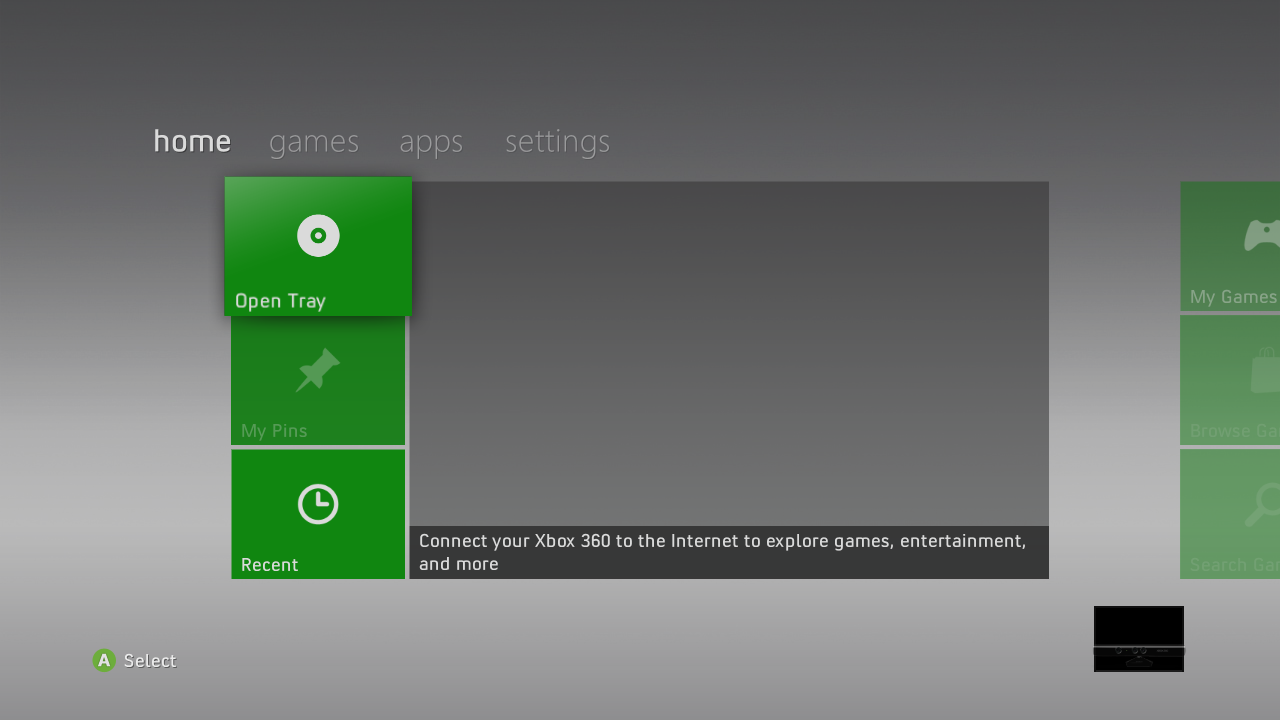
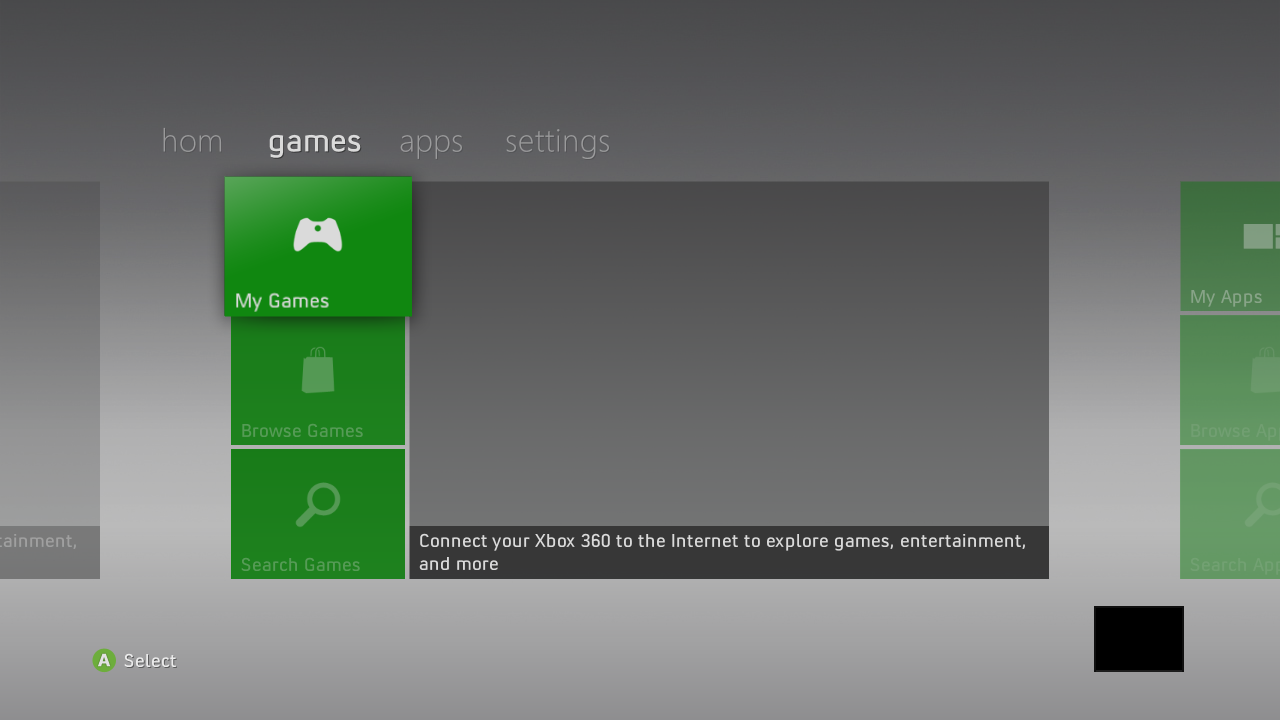
docs(readme): use actual dashboard games capture

diff --git a/README.pt-BR.md b/README.pt-BR.md
@@ -71,13 +71,13 @@ O `vk.xex` 17559 identificado corresponde à versão Retail 17559. O `vk.xex` 13
 
 ## Veja a dashboard original
 
-Estas são capturas reais de leitura da GPU em 1280×720 do **backend Xenos**, feitas em 14 de outubro de 2026 durante uma comparação de navegação da dashboard. Elas mostram estados da interface, não gameplay nem um benchmark de desempenho.
+Estas são capturas reais de leitura da GPU em 1280×720, feitas em 14 de outubro de 2026 durante uma comparação de navegação da dashboard. A Home usa o backend padrão **Xenos / D3D12**. Games usa o backend **Native D3D12 experimental**, cujo desenvolvimento está suspenso e cujo desempenho não foi aprovado. As imagens mostram estados da dashboard, não gameplay nem um benchmark de desempenho, e não são uma comparação entre os dois backends.
 
-| Dashboard 17559 · Home | Dashboard 17559 · Games |
+| Dashboard 17559 · Home · Xenos | Dashboard 17559 · Games · Native experimental |
 |---|---|
 | ![Captura real da Home da Dashboard 17559](docs/assets/screenshots/dashboard-17559-home.png) | ![Captura real de Games da Dashboard 17559](docs/assets/screenshots/dashboard-17559-games.png) |
 
-Os metadados e hashes estão em [`captures.json`](docs/evidence/native-n2-2026-10-14/captures.json); o conjunto completo de evidências fica em [`docs/evidence/`](docs/evidence/). O banner acima é arte conceitual original, não uma captura de tela nem uma afirmação de compatibilidade.
+Os metadados e hashes estão em [`captures.json`](docs/evidence/native-n2-2026-10-14/captures.json); o conjunto completo de evidências fica em [`docs/evidence/`](docs/evidence/). A captura Games vem de `native-games.png`, onde as abas Games e o bloco My Games estão visíveis. O banner acima é arte conceitual original, não uma captura de tela nem uma afirmação de compatibilidade.
 
 ## Como funciona
 

diff --git a/README.md b/README.md
@@ -71,13 +71,13 @@ The 17559 `vk.xex` is the identified Retail 17559 component. The 13604 `vk.xex` 
 
 ## See the original dashboard
 
-These are real 1280×720 GPU readback screenshots from the **Xenos backend**, captured on 14 October 2026 during a dashboard navigation comparison. They show dashboard states, not gameplay and not a performance benchmark.
+These are real 1280×720 GPU readback screenshots captured on 14 October 2026 during a dashboard navigation comparison. Home uses the default **Xenos / D3D12** backend. Games uses the **experimental Native D3D12** backend, whose development is suspended and whose performance is not approved. They show dashboard states, not gameplay or a performance benchmark, and the two images are not a backend comparison.
 
-| Dashboard 17559 · Home | Dashboard 17559 · Games |
+| Dashboard 17559 · Home · Xenos | Dashboard 17559 · Games · Native experimental |
 |---|---|
 | ![Real Dashboard 17559 Home screenshot](docs/assets/screenshots/dashboard-17559-home.png) | ![Real Dashboard 17559 Games screenshot](docs/assets/screenshots/dashboard-17559-games.png) |
 
-Capture metadata and hashes are retained in [`captures.json`](docs/evidence/native-n2-2026-10-14/captures.json); the full evidence set is under [`docs/evidence/`](docs/evidence/). The banner above is original conceptual artwork, not a screenshot or compatibility claim.
+Capture metadata and hashes are retained in [`captures.json`](docs/evidence/native-n2-2026-10-14/captures.json); the full evidence set is under [`docs/evidence/`](docs/evidence/). The Games screenshot is from `native-games.png`, where the Games tab and My Games tile are visible. The banner above is original conceptual artwork, not a screenshot or compatibility claim.
 
 ## How it works
 
